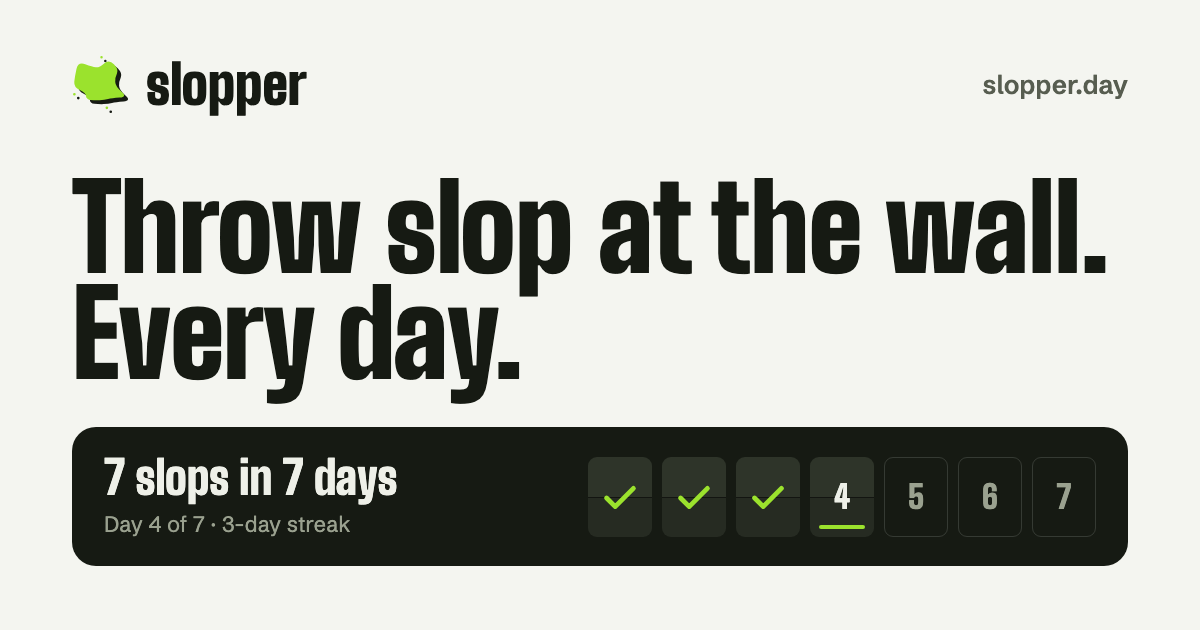
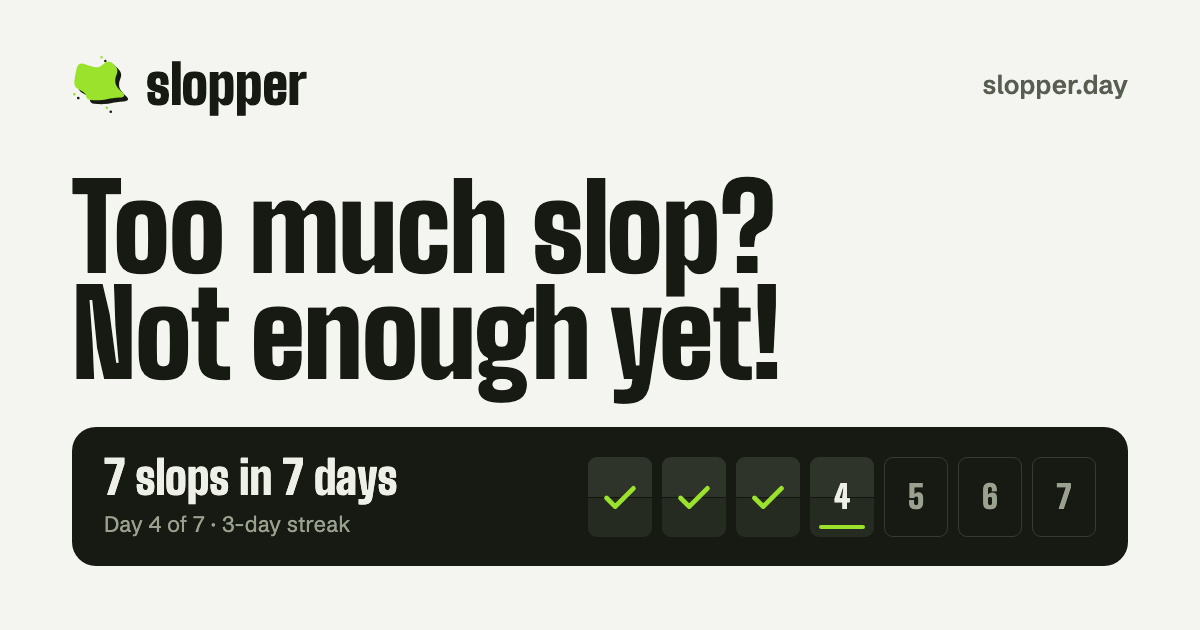
feat: too much slop? Not enough yet!
The new slogan leads the home page, footer, page titles, share card, manifest, README, llms.txt and the CLI's help. "Everyone says slop is bad" is gone; throwing slop at the wall every day stays as the description of how it works.

Changed region(s): [[0.0617, 0.2714, 0.925, 0.6635]]

diff --git a/app/routes/home.tsx b/app/routes/home.tsx
@@ -181,15 +181,15 @@ function Hero() {
   return (
     <section className="mx-auto max-w-6xl px-4 pt-10 pb-20 sm:pt-20 lg:pb-24">
       <h1 className="display max-w-[11ch] lg:max-w-none">
-        Throw slop at the wall.
+        Too much slop?
         <br />
-        Every day.
+        Not enough yet!
       </h1>
       <div className="mt-7 grid items-start gap-8 sm:mt-10 sm:gap-12 lg:mt-14 lg:grid-cols-[minmax(0,1fr)_minmax(0,1.15fr)] lg:gap-16">
         <div>
           <p className="lede sm:text-[1.25rem]">
-            Everyone says slop is bad. Everything good started as slop, and now you can make it at scale. Set a goal,
-            ship something every day, and <strong className="text-ink">keep slopping until one is slopcessful</strong>.
+            Throw slop at the wall every day: set a goal, ship something daily, and{" "}
+            <strong className="text-ink">keep slopping until one is slopcessful</strong>.
           </p>
           <div className="mt-6 grid grid-cols-2 gap-3 sm:mt-9 sm:flex sm:flex-wrap">
             <Link to="/login?returnTo=%2Fgoal" className="btn btn-slop sm:btn-lg">

diff --git a/app/lib/seo.ts b/app/lib/seo.ts
@@ -1,7 +1,7 @@
 import type { MetaDescriptor } from "react-router";
 
 const DEFAULT_DESCRIPTION =
-  "Throw slop at the wall every day. Set a goal, ship daily with AI, and keep slopping until one is slopcessful.";
+  "Too much slop? Not enough yet! Throw slop at the wall every day: set a goal, ship daily with AI, and keep slopping until one is slopcessful.";
 
 export interface SeoOptions {
   title?: string;
@@ -25,7 +25,7 @@ export function originFrom(matches: readonly (MatchLike | undefined)[]): string 
 
 export function seo(matches: readonly (MatchLike | undefined)[], options: SeoOptions = {}): MetaDescriptor[] {
   const origin = originFrom(matches);
-  const title = options.title ? `${options.title} · Slopper` : "Slopper · throw slop at the wall";
+  const title = options.title ? `${options.title} · Slopper` : "Slopper · Too much slop? Not enough yet!";
   const description = options.description ?? DEFAULT_DESCRIPTION;
   const image = new URL(options.image ?? "/og.png", origin).href;
   const tags: MetaDescriptor[] = [

diff --git a/app/routes/llms.ts b/app/routes/llms.ts
@@ -19,7 +19,7 @@ export function loader() {
 
   const text = `# Slopper
 
-> Throw slop at the wall every day. People ship small apps, sites, games and betas daily, track a goal like "30 slops in 30 days", promote them, test them with real people, and keep slopping until one is slopcessful.
+> Too much slop? Not enough yet! Throw slop at the wall every day: people ship small apps, sites, games and betas daily, track a goal like "30 slops in 30 days", promote them, test them with real people, and keep slopping until one is slopcessful.
 
 ## Concepts
 - Slop: one shipped thing with links (website, App Store, TestFlight, Google Play, Android beta, source), screenshots, a tagline and a Markdown description.

diff --git a/e2e/public.spec.ts b/e2e/public.spec.ts
@@ -6,7 +6,7 @@ test.describe("visitors", () => {
     page.on("pageerror", (error) => errors.push(error.message));
 
     await page.goto("/");
-    await expect(page.getByRole("heading", { level: 1 })).toContainText("Every day.");
+    await expect(page.getByRole("heading", { level: 1 })).toContainText("Not enough yet!");
     await expect(page.getByRole("heading", { name: "Today's race" })).toBeVisible();
     await expect(page.getByRole("heading", { name: "Volume beats taste." })).toBeVisible();
     // Only networks the server has keys for are named; the stack has them all.

diff --git a/packages/cli/tests/package.test.ts b/packages/cli/tests/package.test.ts
@@ -237,7 +237,7 @@ for (const runtime of RUNTIMES) {
       expect(await slopper(["--version"])).toEqual({ code: 0, stdout: `${manifest.version}\n`, stderr: "" });
       const help = await slopper(["--help"]);
       expect(help).toMatchObject({ code: 0, stderr: "" });
-      expect(help.stdout).toContain(`slopper ${manifest.version}: throw slop at the wall`);
+      expect(help.stdout).toContain(`slopper ${manifest.version}: too much slop? Not enough yet!`);
       expect(help.stdout).toContain("\n  launch ");
       expect(await slopper(["nope"])).toEqual({
         code: 2,

diff --git a/app/components/Footer.tsx b/app/components/Footer.tsx
@@ -31,8 +31,7 @@ export function Footer() {
         <div className="col-span-2 sm:col-span-1">
           <Wordmark className="text-[2.75rem]" />
           <p className="mt-5 max-w-sm text-muted">
-            Everyone says slop is bad. Everything starts as slop. Throw it at the wall every day until one of them
-            sticks.
+            Too much slop? Not enough yet! Throw it at the wall every day until one of them sticks.
           </p>
         </div>
         {COLUMNS.map((column) => (

diff --git a/packages/cli/src/main.ts b/packages/cli/src/main.ts
@@ -39,7 +39,7 @@ function usage(command: Command): string {
 function overview(): string {
   const width = Math.max(...COMMANDS.map((command) => command.name.length));
   return [
-    `slopper ${manifest.version}: throw slop at the wall, from your terminal. Built for agents.`,
+    `slopper ${manifest.version}: too much slop? Not enough yet! Throw it at the wall from your terminal. Built for agents.`,
     "",
     "Usage: slopper <command> [flags]",
     "",

diff --git a/scripts/og-image.ts b/scripts/og-image.ts
@@ -134,7 +134,7 @@ const HTML = `<!doctype html>
     <div class="brand"><img src="${LOGO}" alt="">slopper</div>
     <span class="url">slopper.day</span>
   </header>
-  <h1>Throw slop at the wall.<br>Every day.</h1>
+  <h1>Too much slop?<br>Not enough yet!</h1>
   <section class="board">
     <div class="goal">
       <h2>7 slops in 7 days</h2>

diff --git a/README.md b/README.md
@@ -1,10 +1,9 @@
 # Slopper
 
-**Throw slop at the wall. Every day.** [slopper.day](https://slopper.day)
+**Too much slop? Not enough yet!** [slopper.day](https://slopper.day)
 
-Everyone says slop is bad. Everything good started as slop, and now you can make it at scale. Slopper is where you set a
-goal (30 slops in 30 days), ship something every day, show it to people, and keep slopping until one of them is
-**slopcessful**.
+Slopper is where you throw slop at the wall every day: set a goal (30 slops in 30 days), ship something every day, show
+it to people, and keep slopping until one of them is **slopcessful**.
 
 - **Goals on a board of days.** Every day you ship flips its tile to a "!". Days end at midnight in your time zone.
 - **Slop of the day.** Each UTC day is a race on votes (5 each a day); a cron crowns the winner after midnight, and

diff --git a/AGENTS.md b/AGENTS.md
@@ -92,4 +92,5 @@ release. Add a tool name to select part of the graph. For example, run
   `CHANGELOG.md` or `.monochange/releases/`: monochange owns them. A release is a pull request:
   `vp exec monochange run release` (from a clean main) commits it on `chore/release` and opens it; merging it
   publishes. `run publish` only runs in the release workflow.
-- **Voice:** throw slop at the wall, keep slopping until it's slopcessful. Plain words; no restaurant metaphors.
+- **Voice:** the tagline is "Too much slop? Not enough yet!"; how it works is throw slop at the wall, keep slopping until
+  it's slopcessful. Plain words; no restaurant metaphors.

diff --git a/PRODUCT.md b/PRODUCT.md
@@ -49,7 +49,7 @@ tokens. Sign in with GitHub, Google, X, LinkedIn or Facebook, all linked to one 
 
 ## Brand Commitments
 
-- Name: Slopper, at slopper.day. Tagline: "Throw slop at the wall. Every day."
+- Name: Slopper, at slopper.day. Tagline: "Too much slop? Not enough yet!"
 - Voice: plain words, cheeky. Throw slop at the wall, keep slopping until it's slopcessful. No kitchen, cooking,
   restaurant or food imagery or wording, ever.
 - Logo: the seeded splat (the old splat generator's seed 20261006, frozen into paths), lime over a nudged ink copy,

diff --git a/packages/cli/README.md b/packages/cli/README.md
@@ -1,6 +1,6 @@
 # @slopperday/cli
 
-Throw slop at the wall from your terminal. `slopper` launches, updates and votes on
+Too much slop? Not enough yet! Throw it at the wall from your terminal: `slopper` launches, updates and votes on
 [slopper.day](https://slopper.day) through its API, and prints JSON, so it's built for agents as much as people.
 
 ## Run it
